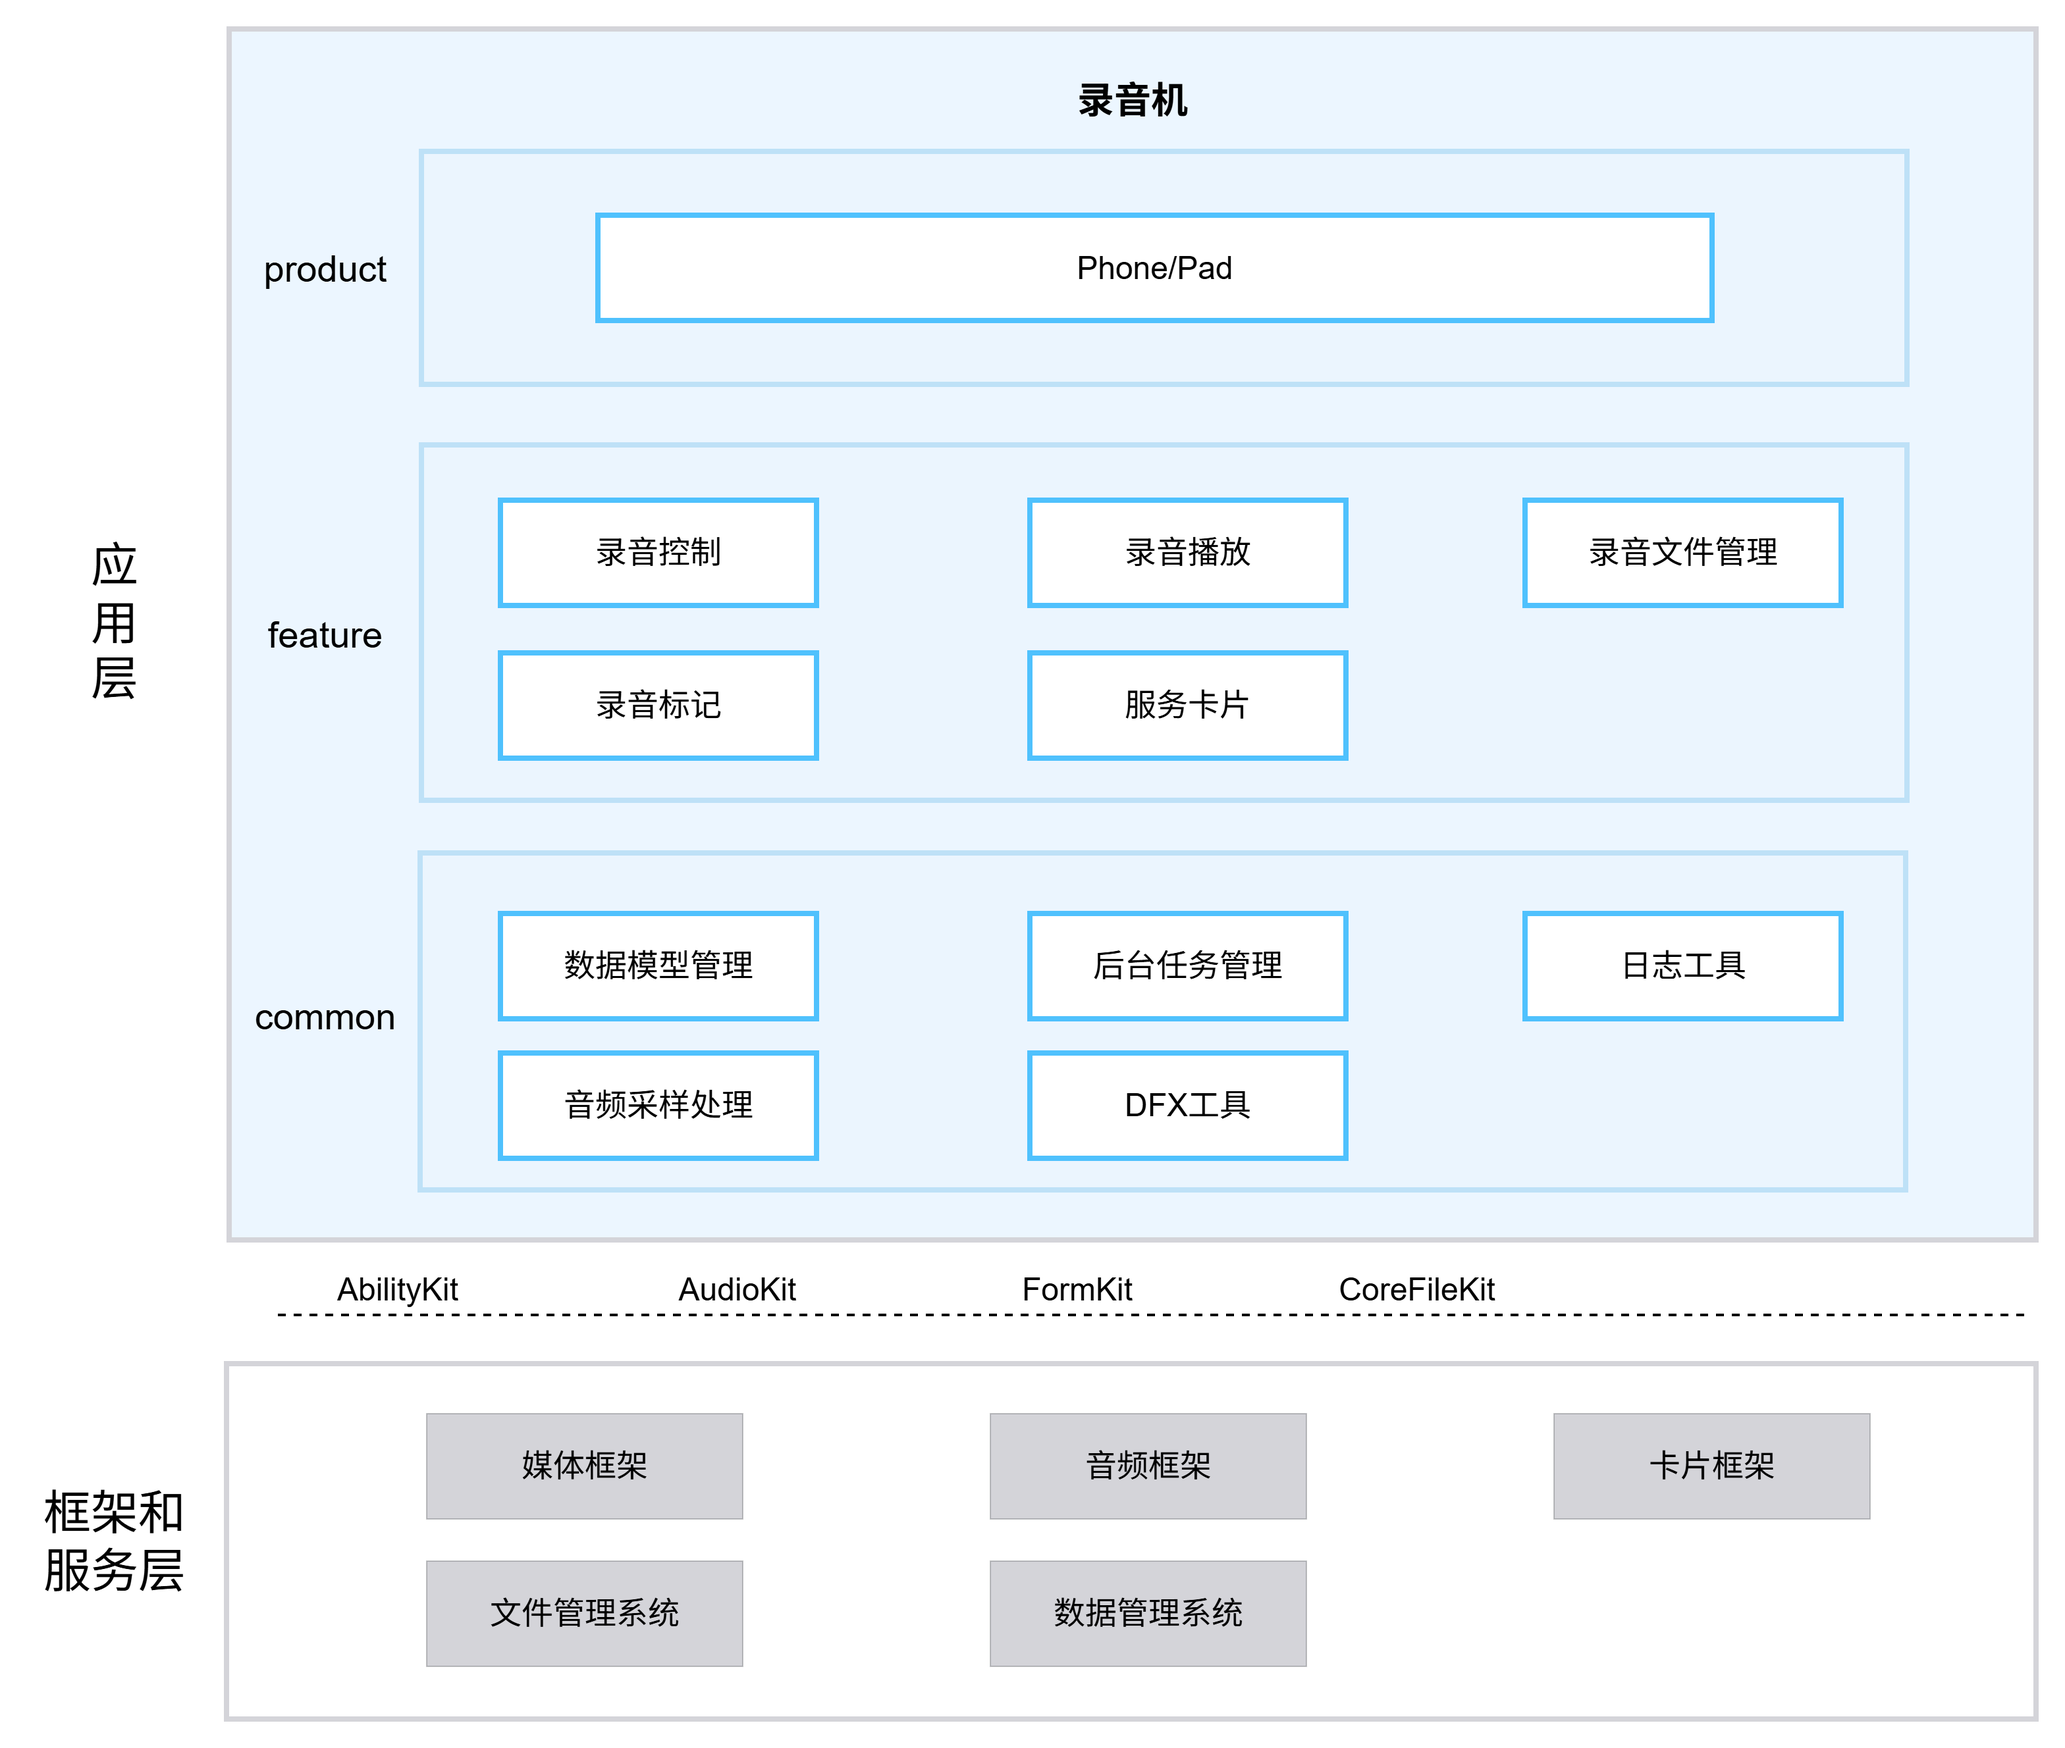
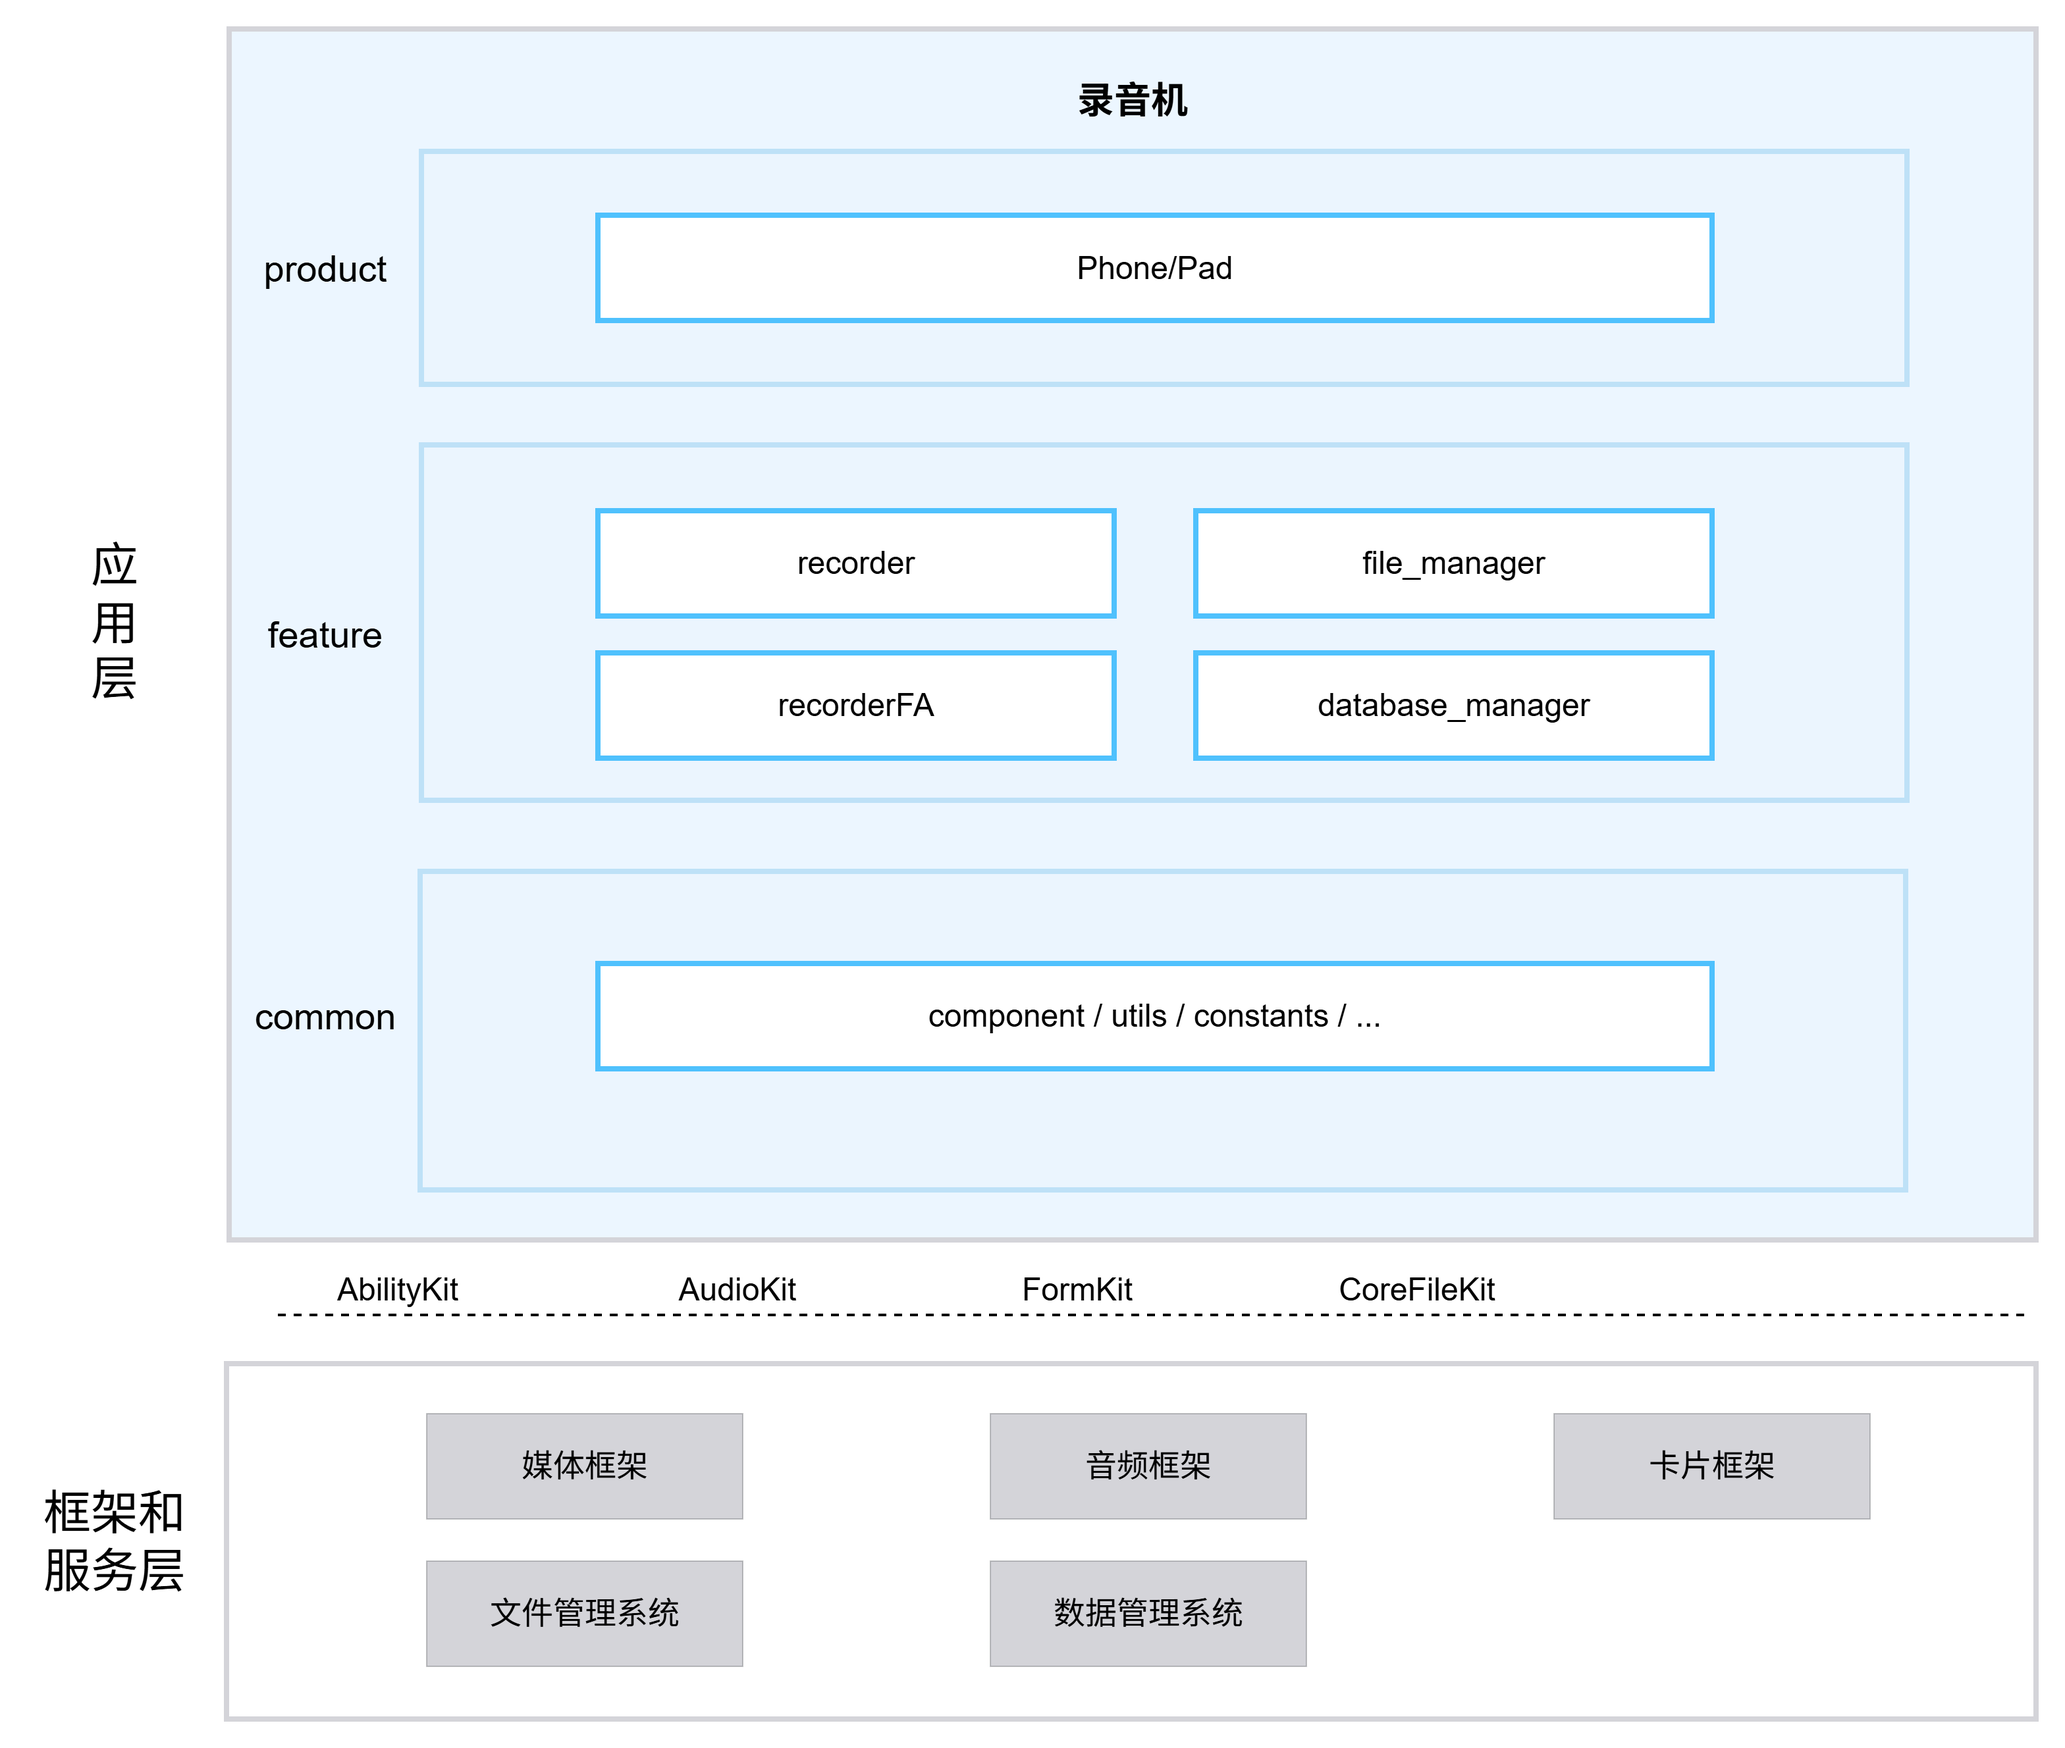
更新README模块说明

diff --git a/README_zh.md b/README_zh.md
@@ -12,7 +12,7 @@
 - 支持开始、暂停、继续与结束录音，录音过程中展示波形与时长。
 - 支持通知栏 / 实况窗控制。
 - 支持后台连续任务保活。
-- 完成录音状态机管理，录音结束后将文件保存到系统公共目录`/storage/Users/currentUser/Sounds`下并同步写入数据库。
+- 完成录音状态机管理，录音结束后将文件保存到系统公共目录`/storage/Users/currentUser/Sounds`下并同步写入`recorderSound.db`数据库。
 
 **录音播放**
 - 支持播放、暂停、进度拖动与倍速播放。
@@ -38,21 +38,22 @@
 
 整体可划分为产品层、特性层、公共层：
 
-| 层次   | 主要目录     | 说明     |
-|------|-------------------------------------------------------------------------------------------|----------------------------------------|
-| 产品层 | `product`                                                                                 | 支持手机、平板形态       |
-| 特性层 | `feature/recorder`、`feature/database_manager`、`feature/file_manager`、`feature/recorderFA` | 录音控制、录音播放、录音文件管理、录音标记、服务卡片       |
+| 层次   | 模块                                                                                        | 功能点                             |
+|------|-------------------------------------------------------------------------------------------|---------------------------------|
+| 产品层 | `product`                                                                                 | 手机、平板形态支持                       |
+| 特性层 | `feature/recorder`、`feature/database_manager`、`feature/file_manager`、`feature/recorderFA` | 录音控制、录音播放、录音文件管理、录音标记、服务卡片      |
 | 公共层 | `common`                                                                                  | 数据模型管理、后台任务管理、日志工具、音频采样处理、DFX工具 |
 
-**特性层模块说明**：
+**模块说明**：
 
-| 核心能力   | 模块与关键类                | 说明                      |
-|--------|-----------------------------------------------------------------------------------------------------------|-------------------------|
-| 录音控制   | `feature/recorder`（RecordingPage, RecordManager, BaseViewModel）                                           | 录音状态机、音频采集、波形展示         |
-| 录音播放   | `feature/recorder`（RecordPlayPage, PlayManager, MediaController）	                                         | 播放控制、AVSession媒体会话、倍速播放 |
-| 录音标记   | `feature/recorder`（MarkComponent, MarkListComponent）                                                      | 添加/编辑/跳转标记              |
-| 录音文件管理 | `feature/file_manager`、`feature/database_manager`（AudioRecordListComponent, DatabaseManager, FileManager） | 录音列表/最近删除/搜索/排序         |
-| 服务卡片   | `feature/recorderFA`（FormAbility）                                                                         | 卡片管理、卡片状态同步             |
+| 模块                       | 关键类                                                                     | 依赖                                                                                           | 说明                                                                       |
+|--------------------------|-------------------------------------------------------------------------|----------------------------------------------------------------------------------------------|--------------------------------------------------------------------------|
+| product                  | MainAbility, Index                                                      | common, feature/recorder, feature/recorderFA, feature/database_manager, feature/file_manager | 应用主入口与首页，同时适配手机（default）和平板（tablet）形态，通过 common 中的设备检测实现自适应布局            |
+| feature/recorder         | RecordingPage, RecordPlayPage, RecordManager, PlayManager               | common, feature/file_manager                                                                 | 功能包括录音控制（状态机、音频采集、波形展示）、录音播放（播放控制、倍速、AVSession媒体会话）、录音标记（添加、编辑、跳转）       |
+| feature/database_manager | RecordDbManager                                                         | common                                                                                       | 录音数据的 RDB 增删改查,数据库表包括 normal_record_table、tag、recent_delete_record_table |
+| feature/file_manager     | FileManager, RecordWatcher                                              | common, database_manager                                                                     | 录音列表/最近删除/搜索/排序，文件监听通过 RecordWatcher 检测录音文件变化，触发数据库同步与列表刷新               |
+| feature/recorderFA       | FormsManager, FormController                                            | common, feature/recorder                                                                     | 服务卡片数据管理、状态同步与更新；2×1、2×2 卡片交互控制                                          |
+| common                   | FileUtil, SampleUtil, AesGcmUtil, CommonConstants, RecordData, MarkData | -                                                                                            | 文件操作与路径解析；后台连续任务管理；音频波形采样；DFX 事件上报；业务常量与枚举定义；公共数据模型                      |
 
 ### 与其它应用的关系
 

diff --git a/README.md b/README.md
@@ -2,9 +2,9 @@
 
 ## Introduction
 
-**SoundRecorder** (bundle name: `com.ohos.soundrecorder`) is a pre-installed **system application** in OpenHarmony. It captures audio through the microphone, providing recording control, recording playback, recording file management, recording tags, and service cards. It adapts to phone and tablet device forms.
+**SoundRecorder** (bundle name: `com.ohos.soundrecorder`) is a pre-installed **system application** in OpenHarmony. It captures audio through the microphone, providing recording control, recording playback, recording file management, recording tags, and service cards. It adapts to phone and tablet device forms. Users can enter SoundRecorder from the desktop icon or service cards.
 
-This application is a system preset app. Users can enter the recorder from the desktop icon or service cards.
+This application does not support call recording or in-app recording. It follows the audio framework audio focus policy and only records microphone audio.
 
 ### Core Capabilities
 
@@ -12,8 +12,7 @@ This application is a system preset app. Users can enter the recorder from the d
 - Supports start, pause, resume, and stop, with waveform and duration display during recording.
 - Supports notification / Live View controls.
 - Supports background continuous task keep-alive.
-- Does not support call recording or in-app recording. It follows the audio framework focus policy and only records microphone audio.
-- Manages the recording state machine. After recording ends, files are saved to the system public directory `/storage/Users/currentUser/Sounds` and synchronized to the database.
+- Manages the recording state machine. After recording ends, files are saved to the system public directory `/storage/Users/currentUser/Sounds` and synchronized to the `recorderSound.db` database.
 
 **Recording Playback**
 - Supports play, pause, seek, and playback speed control.
@@ -39,21 +38,22 @@ SoundRecorder uses a layered and modular design organized by product form, busin
 
 The overall structure is divided into the product layer, feature layer, and common layer:
 
-| Layer | Main Directories | Description |
-| ----- | ---------------- | ----------- |
-| Product layer | `product` | Supports phone and tablet forms |
+| Layer | Module | Capabilities |
+| ----- | ------ | ------------ |
+| Product layer | `product` | Phone and tablet form support |
 | Feature layer | `feature/recorder`, `feature/database_manager`, `feature/file_manager`, `feature/recorderFA` | Recording control, recording playback, recording file management, recording tags, service cards |
 | Common layer | `common` | Data model management, background task management, logging, audio sampling, DFX utilities |
 
-**Feature layer module description**:
+**Module description**:
 
-| Core Capability | Module and Key Classes | Description |
-| --------------- | ---------------------- | ----------- |
-| Recording control | `feature/recorder` (RecordingPage, RecordManager, BaseViewModel) | Recording state machine, audio capture, waveform display |
-| Recording playback | `feature/recorder` (RecordPlayPage, PlayManager, MediaController) | Playback control, AVSession media session, speed control |
-| Recording tags | `feature/recorder` (MarkComponent, MarkListComponent) | Add, edit, and jump to tags |
-| Recording file management | `feature/file_manager`, `feature/database_manager` (AudioRecordListComponent, DatabaseManager, FileManager) | Recording list, recently deleted, search, sorting |
-| Service cards | `feature/recorderFA` (FormAbility) | Card management, card status sync |
+| Module | Key Classes | Dependencies | Description |
+| ------ | ----------- | ------------ | ----------- |
+| product | MainAbility, Index | common, feature/recorder, feature/recorderFA, feature/database_manager, feature/file_manager | Application main entry and home page, adapting to both phone (default) and tablet forms via device detection in common for responsive layout |
+| feature/recorder | RecordingPage, RecordPlayPage, RecordManager, PlayManager | common, feature/file_manager | Recording control (state machine, audio capture, waveform display), recording playback (playback control, speed, AVSession media session), recording tags (add, edit, jump) |
+| feature/database_manager | RecordDbManager | common | RDB CRUD for recording data; database tables include normal_record_table, tag, recent_delete_record_table |
+| feature/file_manager | FileManager, RecordWatcher | common, database_manager | Recording list, recently deleted, search, sorting; file change detection via RecordWatcher triggers database sync and list refresh |
+| feature/recorderFA | FormsManager, FormController | common, feature/recorder | Service card data management, status sync and updates; 2×1 and 2×2 card interaction control |
+| common | FileUtil, SampleUtil, AesGcmUtil, CommonConstants, RecordData, MarkData | - | File operations and path resolution; background continuous task management; audio waveform sampling; DFX event reporting; business constants and enumerations; shared data models |
 
 ### Relationship with Other Applications
 
@@ -268,7 +268,7 @@ soundrecorder
 │        ├─Application/                 # Application lifecycle management
 │        ├─MainAbility/                 # Application main entry
 │        ├─pages/                       # Home page
-│        ├─form/                        # Service card lifecycle management, 2×1 and 2×2 cards
+│        └─form/                        # Service card lifecycle management, 2×1 and 2×2 cards
 ├─hvigor                                # Build tool configuration
 ├─signature                             # Signing certificates and profile
 ├─open_source                           # Open-source notice materials
